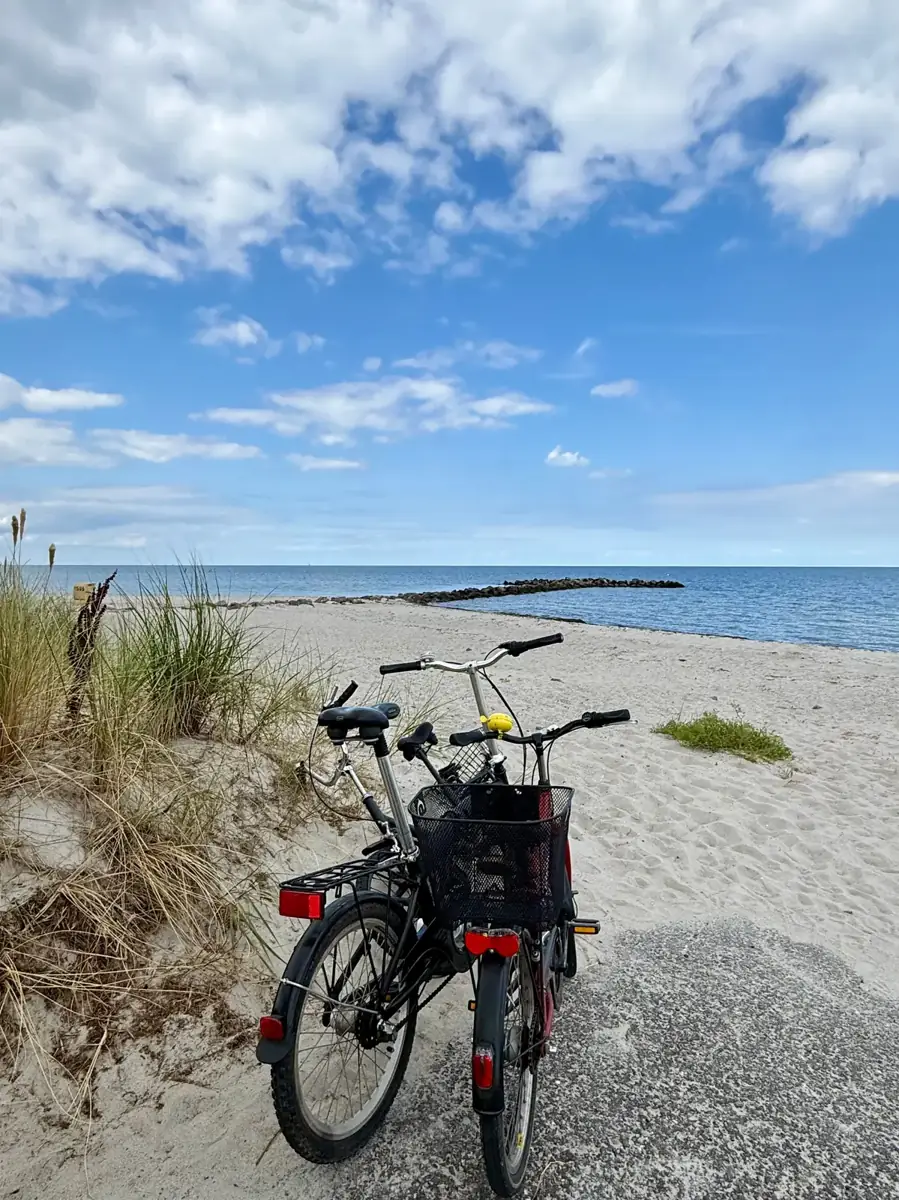
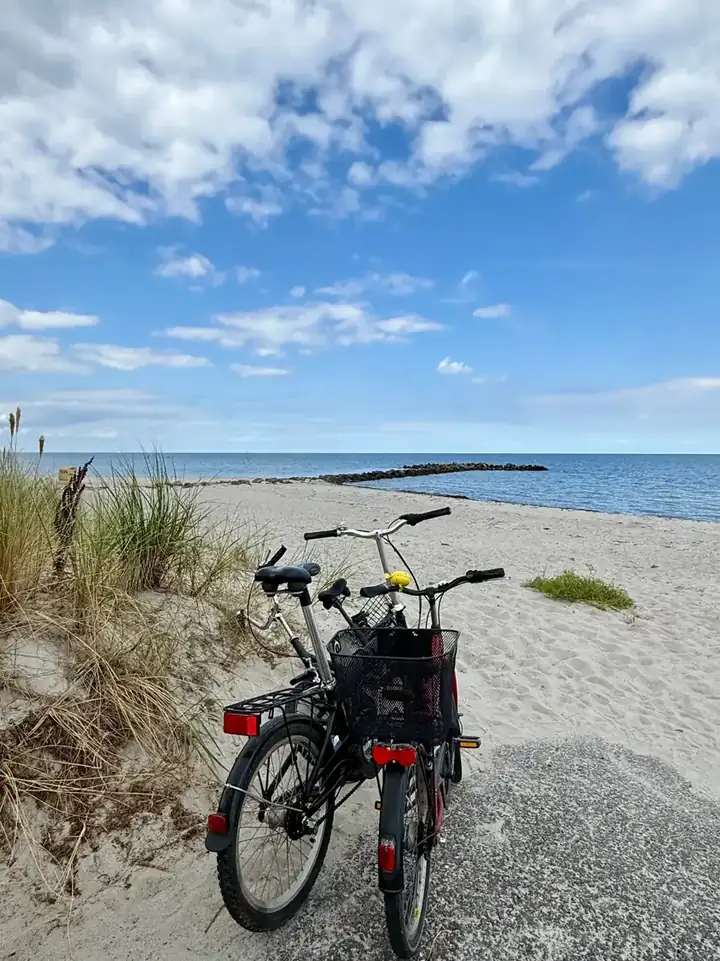
V2 : cartes séjours, coups de cœur repliables, accessibilité
Claude-Session: https://claude.ai/code/session_01FXJ3L2BFXWrNifvgMgEKFQ

Changed region(s): [[0.2139, 0.718, 0.2444, 0.7492]]

diff --git a/src/assets/themes/clairac.css b/src/assets/themes/clairac.css
@@ -90,7 +90,7 @@ a:hover{text-decoration-thickness:2px}
 .hero-carnet .surtitre{color:#E9A47E}
 .hero-carnet h1{font-size:clamp(2.3rem,4.5vw,3.85rem);color:var(--fond)}
 .hero-carnet .chapo{font-size:1.15rem;color:color-mix(in srgb,var(--fond) 88%,transparent)}
-.hero-carnet .bouton:not(.secondaire){background:#C26A3F;border-color:#C26A3F;color:#1E1A12}
+.hero-carnet .bouton:not(.secondaire){background:#CC7347;border-color:#CC7347;color:#1E1A12}
 .hero-carnet .bouton:not(.secondaire):hover{background:#D07A4E;border-color:#D07A4E}
 .hero-carnet .bouton.secondaire{border-color:var(--fond);color:var(--fond)}
 .hero-carnet .bouton.secondaire:hover{background:var(--fond);color:var(--texte)}
@@ -183,7 +183,7 @@ a:hover{text-decoration-thickness:2px}
 .appel-reservation .actions{justify-content:center}
 .appel-reservation .bouton.secondaire{border-color:var(--fond);color:var(--fond)}
 .appel-reservation .bouton.secondaire:hover{background:var(--fond);color:var(--texte)}
-.appel-reservation .bouton:not(.secondaire){background:#C26A3F;border-color:#C26A3F;color:#1E1A12}
+.appel-reservation .bouton:not(.secondaire){background:#CC7347;border-color:#CC7347;color:#1E1A12}
 .appel-reservation .bouton:not(.secondaire):hover{background:#D07A4E}
 
 /* Pages intérieures */
@@ -311,3 +311,15 @@ a:hover{text-decoration-thickness:2px}
 .meteo-min{opacity:.7}
 .meteo-jours .picto{width:38px;height:38px}
 @media (max-width:760px){.meteo{grid-template-columns:1fr}.meteo-jours li:first-child{border-left:0}}
+
+/* P2 : prix sur les cartes séjours, thèmes repliables des coups de cœur */
+.sejour-prix{font-family:"Caveat",cursive;font-size:1.5rem;color:var(--accent);margin:-4px 0 6px}
+.theme{background:var(--papier);border-radius:var(--rayon);box-shadow:var(--ombre);margin:0 0 16px;scroll-margin-top:140px}
+.theme>summary{display:flex;justify-content:space-between;align-items:center;gap:16px;padding:18px 22px;cursor:pointer;list-style:none;font-family:"Fraunces",serif;font-size:1.3rem;min-height:48px}
+.theme>summary::-webkit-details-marker{display:none}
+.theme>summary::after{content:"+";font-size:1.6rem;line-height:1;margin-left:auto}
+.theme[open]>summary::after{content:"–"}
+.theme-nb{font-family:"Source Sans 3",sans-serif;font-size:.95rem;opacity:.75}
+.theme>summary:focus-visible{outline:3px solid var(--accent);outline-offset:2px}
+.theme>.section-intro,.theme>.lieux-grille,.theme>p{margin-inline:22px}
+.theme[open]{padding-bottom:22px}
